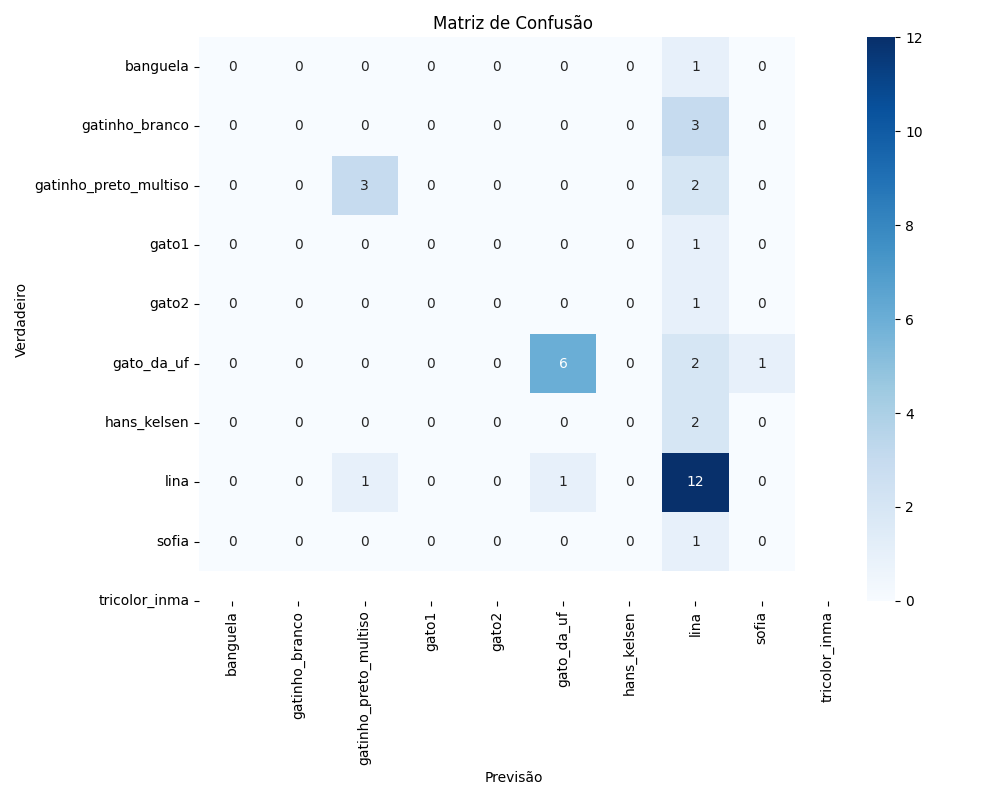
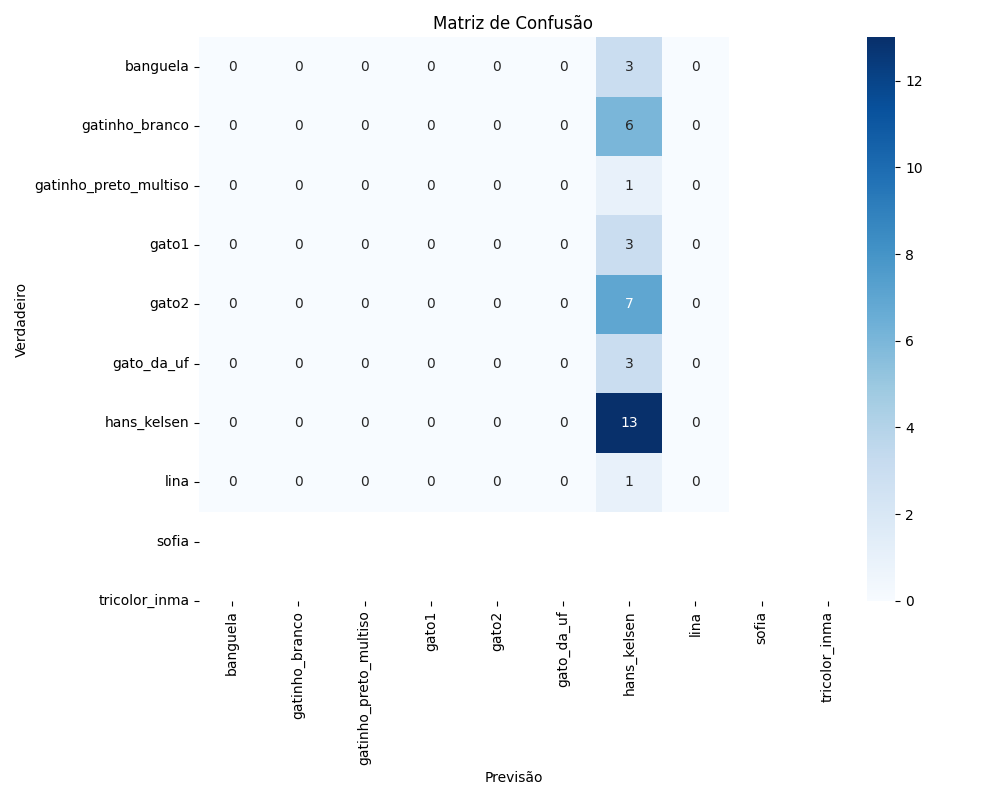
otimizando cnn para melhor generalizacao

Changed region(s): [[0.527, 0.0312, 0.744, 0.6562], [0.31, 0.1875, 0.403, 0.2812], [0.899, 0.1562, 0.93, 0.2188]]

diff --git a/treino_gatos.py b/treino_gatos.py
@@ -126,21 +126,33 @@ def train_model(root_dir, num_epochs, batch_size, learning_rate, num_workers=0):
     total_duration = time.time() - total_start_time
     print(f"\n--- Treinamento Concluído! Tempo Total: {total_duration:.2f} segundos ---")
 
-    # Salva métricas para análise posterior
+    # Salva as métricas de treinamento e validação
     np.save(os.path.join("modelos", "train_losses.npy"), np.array(train_losses))
     np.save(os.path.join("modelos", "val_losses.npy"), np.array(val_losses))
     np.save(os.path.join("modelos", "train_accuracies.npy"), np.array(train_accuracies))
     np.save(os.path.join("modelos", "val_accuracies.npy"), np.array(val_accuracies))
     print("Métricas de treinamento salvas para plotagem.")
 
+    # Calcular o número total de amostras processadas
+    total_samples_processed_train = len(train_dataset) * num_epochs
+    total_samples_processed_val = len(val_dataset) * num_epochs
+    
+    print(f"\n--- Resumo do Processamento ---")
+    print(f"Número total de amostras (imagens originais) no conjunto de TREINO: {len(train_dataset)}")
+    print(f"Número total de amostras (imagens originais) no conjunto de VALIDAÇÃO: {len(val_dataset)}")
+    print(f"Modelo treinado por: {num_epochs} épocas")
+    print(f"Número total de amostras processadas no TREINO (com aumento): {total_samples_processed_train}")
+    print(f"Número total de amostras processadas na VALIDAÇÃO: {total_samples_processed_val}")
+
+    
     # Retorna objetos úteis para avaliação posterior
     return model, train_losses, val_losses, train_accuracies, val_accuracies, class_names, val_loader
 
 if __name__ == '__main__':
     ROOT_DIR = 'gatos'
-    NUM_EPOCHS = 8
-    BATCH_SIZE = 32
-    LEARNING_RATE = 0.001
+    NUM_EPOCHS = 10
+    BATCH_SIZE = 32 
+    LEARNING_RATE = 0.001 # Taxa de aprendizado (pesos)
     NUM_WORKERS = 0  # 0 para Windows
     
     # Traina o modelo e salva os resultados

diff --git a/dataset_gatos.py b/dataset_gatos.py
@@ -27,7 +27,6 @@ class GatosDataset(Dataset):
                         self.labels.append(idx)
 
         # Transformação padrão
-        
         self.base_transform = transforms.Compose([
             transforms.ToPILImage(),
             transforms.ToTensor(),
@@ -36,10 +35,14 @@ class GatosDataset(Dataset):
         # Transforms diferentes para treino e validação
         if is_train:
             self.transform = transforms.Compose([
-                transforms.ToPILImage(),
-                transforms.RandomResizedCrop(self.target_size[0], scale=(0.8, 1.0)),
-                transforms.RandomHorizontalFlip(),
-                transforms.ToTensor(),
+                transforms.ToPILImage(), # Converte NumPy array para PIL Image
+                transforms.RandomResizedCrop(self.target_size[0], scale=(0.7, 1.0), ratio=(0.75, 1.33)), # Ajuste o scale e ratio
+                transforms.RandomHorizontalFlip(p=0.5), # Inverte horizontalmente com 50% de chance
+                transforms.RandomRotation(degrees=45), # Rotação aleatória em até 15 graus
+                transforms.ColorJitter(brightness=0.2, contrast=0.2, saturation=0.2, hue=0.1), # Ajustes de cor
+                transforms.RandomPerspective(distortion_scale=0.2, p=0.3), # Opcional: distorção de perspectiva
+                transforms.RandomAffine(degrees=0, translate=(0.1, 0.1)), # Opcional: translação (deslocamento)
+                transforms.ToTensor(), # Converte para Tensor e normaliza para [0,1]
             ])
         else:
             self.transform = transforms.Compose([

diff --git a/modelo_gatos.py b/modelo_gatos.py
@@ -18,7 +18,7 @@ class GatosCNN(nn.Module):
         # Para entrada 224x224, após 4 poolings 2x2 (224/16 = 14), e 256 canais.
         self.fc1 = nn.Linear(256 * 14 * 14, 512)
         self.fc2 = nn.Linear(512, num_classes)
-        self.dropout = nn.Dropout(0.5)
+        self.dropout = nn.Dropout(0.6) # Taxa de dropout de 60% para evitar overfitting
 
     # Método de passagem direta
     # Recebe um tensor de entrada x e retorna a saída da rede
